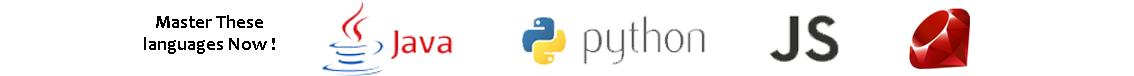
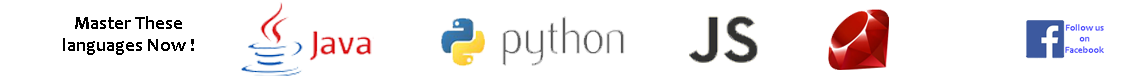
Link to FB

diff --git a/app/partials/home.html b/app/partials/home.html
@@ -82,8 +82,10 @@
 			
 			
 			<div id="fake_body_2" class ="container">
-              <center> <img src="img/languages.png" alt="some_text"> </center>	 	
-
+              <center> 
+			  <a href ="https://www.facebook.com/pages/Singpath/288817147942516" target="_blank"> 
+			  <img ng-src="img/languages.png" />  </center>	 	
+			   </a>
 			</div>
 			
 			
